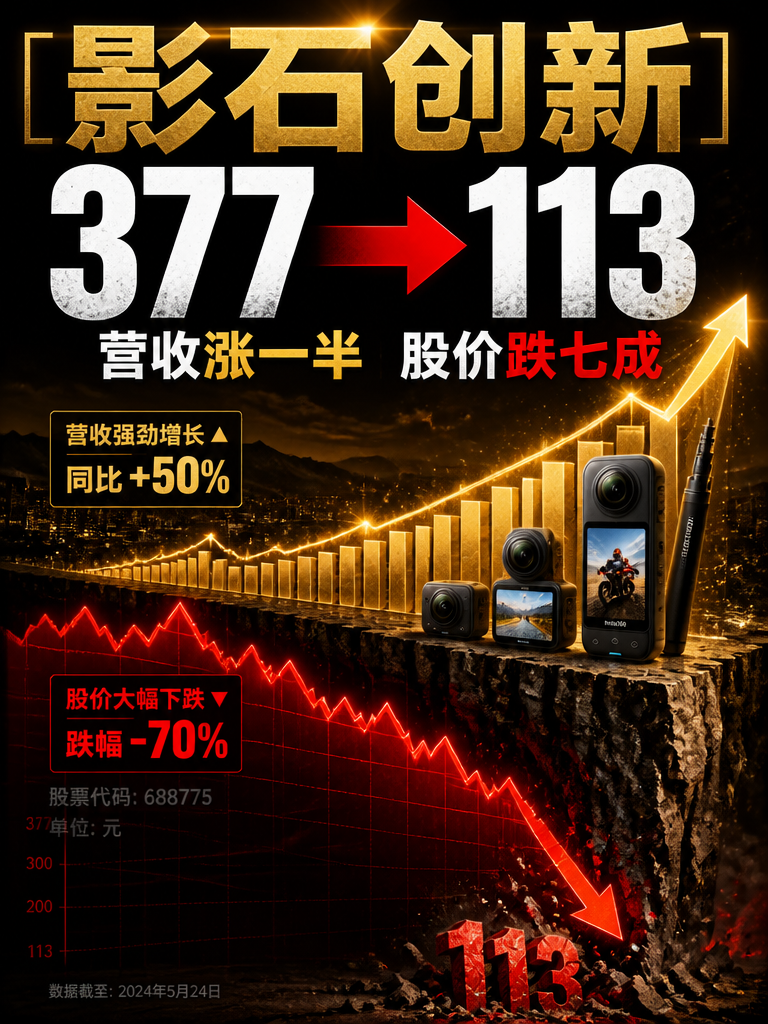
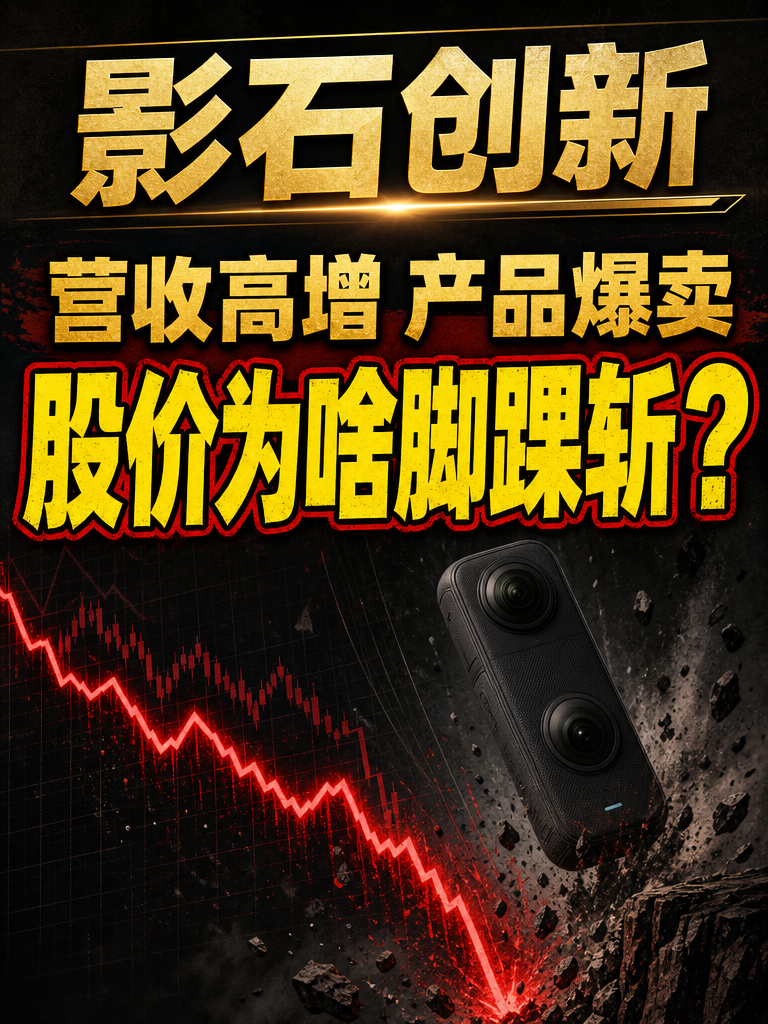
更新影石创新选题：重写三大坑逻辑并更新封面规范
- 影石创新口播稿重写第二个坑（大疆价格战→海外禁售风险），并修正股价/市值数据
- 封面规范更新：主锤字须从标题核心判断长出，数字只作物证不当视觉锤
- 更新封面图与华升复盘中的封面实锤规则

diff --git a/workspace/2026-09-02_影石创新：营收高增，产品越卖越火，股价为啥脚踝斩/视频基础信息.md b/workspace/2026-09-02_影石创新：营收高增，产品越卖越火，股价为啥脚踝斩/视频基础信息.md
@@ -21,7 +21,7 @@
 
 ## 一、口播稿
 
-影石创新，最近股价持续创新低，从最高351块一路跌到接近110块，已经脚踝斩。更狠的是它最新的半年报，上半年卖了55个亿，同比涨了一半，结果到手的利润只剩 3000 万，扣非还倒亏 1500 多万。卖得越多、亏得越狠。上市才一年多，从风光无限到只剩三折。
+影石创新，最近股价持续创新低，从最高377块一路跌到接近110块，已经脚踝斩。更狠的是它最新的半年报，上半年卖了55个亿，同比涨了一半，结果到手的利润只剩3000万，扣非还倒亏1500多万。卖得越多、亏得越狠。上市才一年多，从风光无限到只剩三折。
 
 可问题是，它卖得一点都不差。上半年营收55亿，同比涨了50%，放在消费电子这么疲软的赛道里，这个增速是顶级的。全景相机全球市占率71%，累计出货突破了1000万台，东京的门店开业那天排长队，纽约时代广场的旗舰店也马上要开。产品火成这个样子，利润却几乎归零。
 
@@ -29,47 +29,46 @@
 
 关注蛋炒饭财经，带你深度巡礼1000只股票，今天我们聊影石创新。
 
-影响股价的三大坑到底是什么 - 存储芯片、大疆竞争、研发投入，我们一一拆开来看：
+影响股价的三大坑到底是什么——存储芯片、研发投入、海外禁售风险，我们一一拆开来看：
 
 第一个坑，是给上游半导体打工。影石相机的核心物料是存储芯片，这两年AI爆了，DRAM这种存储芯片被数据中心抢疯了，价格涨了4倍多。影石相机物料成本里，存储芯片的占比，从原来的5%，飙到20%。光这一项，就把它的毛利率从51%打到41%，一年跌了10个点。说白了，影石辛辛苦苦卖一台相机，利润先被上游的存储厂抽走了一大截。
 
-第二个坑，是给大疆的价格战买单。以前全景相机这个细分赛道，基本是影石的独家生意。但2025年大疆杀了进来，第一款全景相机Osmo 360，直接定价2999，比影石同档的X5便宜了800块。大疆是全球无人机老大，有无人机业务赚的钱反哺，有自研芯片控制成本，一进来就用价格往下压，一个季度就拿走了35%的份额。价格战打到后面，两边还互相告专利，光没判的官司就有十来起。这第二个坑，是硬碰硬的竞争。
+第二个坑，是给自己野心买单。影石这几年的路，是往全景之外的新品类铺，全景无人机、云台相机、无线麦克风，全都铺开。研发投入从一年5.6亿直接加到10个亿，翻了一倍。光无人机这条新业务，四家子公司加起来亏了3.7亿。再加上它赌存储还要涨，一口气囤了20亿的芯片。上半年光研发、销售、管理这三项，就吃掉23个亿，占了营收的42%。
 
-第三个坑，是给自己野心买单。影石为了扛住大疆，把战线拉得很长，全景无人机、云台相机、无线麦克风，全都铺开。研发投入从一年5.6亿直接加到10个亿，翻了一倍。光无人机这条新业务，四家子公司加起来亏了3.7亿。再加上它赌存储还要涨，一口气囤了20亿的芯片。上半年光研发、销售、管理这三项，就吃掉23个亿，占了营收的42%。
+第三个坑，是海外的一纸禁令悬在头上。2024年，美国运动相机的老牌GoPro，把影石告上了美国国际贸易委员会，要求把影石的相机禁售在美国市场外。美国是影石最大的海外市场，一旦禁售令落地，主力产品可能直接被赶出去。这案子一打就是两年，成了压在股价上的一块大石头。
 
-就是一家本来在赚钱的公司，同时被三头狼咬：上游涨价咬一口，对手打价格战咬一口，自己扩张烧钱再咬一口。三头狼一起上，利润就剩不下什么了。二季度最典型，一季度还赚8500万，到了二季度，直接亏5400万。三个月，从赚钱到亏钱，连个过渡都没有。
+就是一家本来在赚钱的公司，同时掉进了三个坑：上游涨价，自己扩张烧钱，海外还悬着禁售风险。三个坑叠在一起，利润被吃光，估值也被压在地板上。二季度最典型，一季度还赚8500万，到了二季度，直接亏5400万。三个月，从赚钱到亏钱，连个过渡都没有。
 
-那这三个坑，是暂时的，还是长期的？这才是真正决定这只股票值多少钱的问题。我的判断是：三个坑，性质完全不一样。
+那这三个坑，是暂时的，还是长期的？这才是真正决定这只股票值多少钱的问题。我的判断是：三个坑，性质完全不一样，而且其中一个，已经填上了。
 
-先说存储涨价。很多人以为这是普通涨价周期，过两年就回落。但这次不太一样。英伟达已经明说，内存的供应瓶颈至少要持续到2028财年。三星、海力士、美光这些存储厂，甚至开始跟客户签长期协议锁产能，不玩以前的季度短单了。这轮涨价，是 AI 把存储产能抽空了，不是普通周期波动。所以短期一两年内，存储不会便宜。但这里有个关键：存储涨价是全行业一起扛的，大疆的相机一样要用存储，一样贵。这不是影石独有的死穴，是大家共同的逆风。而且影石自己还囤了20亿芯片，提前锁了价，等于在给未来对冲，能提前囤积20亿芯片，也说明公司对自己长期出货量的看好。
+先说存储涨价。很多人以为这是普通涨价周期，过两年就回落。但这次不太一样。英伟达已经明说，内存的供应瓶颈至少要持续到2028财年。三星、海力士、美光这些存储厂，甚至开始跟客户签长期协议锁产能，不玩以前的季度短单了。这轮涨价，是AI把存储产能抽空了，不是普通周期波动。所以短期一两年内，存储不会便宜。但这里有个关键：存储涨价是全行业一起扛的，做相机的每一家都要用存储，一样贵。这不是影石独有的死穴，是大家共同的逆风。而且影石自己还囤了20亿芯片，提前锁了价，等于在给未来对冲，能提前囤积20亿芯片，也说明公司对自己长期出货量的看好。
 
-第二个坑，大疆的价格战，这才是真正要担心的长期变量。因为大疆有无人机这条现金流印钞机，它亏得起，能陪你打三年五年的价格战。价格战不会因为影石利润崩了就停。只要大疆还留在全景相机这个赛道，这块利润就一直被压着。什么时候能松？要么双方打到都受不了，形成默契；要么某一方认输退出。这个不确定性，短期解不开。
+第二个坑，自己扩张，这个其实是最不用怕的。因为它是管理层自己的选择，是可以收的。研发投多少、无人机铺多大、囤多少芯片，都是董事会一句话的事。利润压力真的大了，管理层随时能收缩战线、砍掉烧钱的业务。所以这个坑，是三个坑里唯一一个自己说了算的。
 
-第三个坑，自己扩张，这个其实是最不用怕的。因为它是管理层自己的选择，是可以收的。研发投多少、无人机铺多大、囤多少芯片，都是董事会一句话的事。利润压力真的大了，管理层随时能收缩战线、砍掉烧钱的业务。所以这个坑，是三个坑里唯一一个自己说了算的。
+第三个坑，是最有意思的，因为它已经解除了。今年2月底，美国国际贸易委员会出了终裁，GoPro告影石的六项专利指控，全部不成立。五项发明专利，要么不侵权、要么被认定无效；唯一沾边的一项外观专利，涉及的还是影石上一代、早就停产的旧款，现在的主力产品全是新外观，一点没受影响。一句话，影石可以继续不受限制地在美国卖货，它最大的海外市场的禁售风险，正式落地解除。这场官司影石硬刚了两年，光应诉就花了上千万美元，但它赢了，压在股价上的一块大石头，搬开了。
 
-那问题就来了，把这三头狼都摆开，影石创新这家公司，底子到底还在不在？长期看，价格战打到最后，拼的还是产品力。影石的产品力，还能不能打？
+那问题就来了，影石创新这家公司，底子到底还在不在？长期看，竞争打到最后，拼的还是产品力。影石的产品力，还能不能打？
 
-我的判断很明确：能打，而且这是这只股票最值钱的部分。很多人一看利润崩了，就觉得这公司是不是产品不行了。真不是。影石从2015年就开始做全景相机，十年时间，把全球市占率做到71%，累计出货1000万台，是这个品类的定义者。它的看家本领是全景拼接算法、防抖、AI 影像，这些不是大疆一年半载能抄走的，博主自己也是影石的忠实用户，产品力确实很不错。
+我的判断很明确：能打，而且这是这只股票最值钱的部分。很多人一看利润崩了，就觉得这公司是不是产品不行了。真不是。影石从2015年就开始做全景相机，十年时间，把全球市占率做到71%，累计出货1000万台，是这个品类的定义者。它的看家本领是全景拼接算法、防抖、AI影像，这些技术护城河是十年砸出来的。博主自己也是影石的忠实用户，产品力确实很不错。
 
-就说最新这一代 X5。它用了两颗 1.28 英寸的大底传感器，比大疆 Osmo 360 的底还大，底大一级，画质和夜景就压一头。它的FlowState 防抖、13.5 档动态范围，加上夜景专用的 PureVideo 模式，你去翻实测，画质、防抖、生态到今天都没掉队，甚至在画质上还压大疆一头。
-
-大疆强在供应链规模、自研芯片、还有无人机业务反哺的钱。它能在同等产品上，用更低的价格去卖。所以这不是一场产品力对产品力的碾压，是一场产品力对规模的持久战。影石的产品力能打，但它能不能在价格战里，把产品力重新变成利润，这才是真正的悬念。
+就说最新这一代X5。它用了两颗1.28英寸的大底传感器，画质和夜景直接上了一个台阶。它的FlowState防抖、13.5档动态范围，加上夜景专用的PureVideo模式，你去翻实测，画质、防抖、生态到今天都没掉队。
 
 最后落到大家最关心的：现在这个价，到底贵不贵。
 
 先说市盈率。现在影石的市盈率是 103 倍，看着吓人，但这是假的。因为它的利润崩了，分母变小了，市盈率被硬生生抬上去了。拿 103 倍说它贵，是不对的，因为它的利润正处在最难看的时候。所以影石现在不能看市盈率，得看市销率。
 
-市销率，就是市值除以营收。影石现在市值 454 亿，过去一年营收大概 116 亿，算下来市销率差不多3.9倍。什么概念，小米市销率只有1.4。那这个溢价哪来的？就是市场在赌它那50%的增速，赌它利润拐点早点来。
+市销率，就是市值除以营收。影石现在市值 450 亿，过去一年营收大概 116 亿，算下来市销率差不多3.9倍。什么概念，小米市销率只有1.4。那这个溢价哪来的？就是市场在赌它那50%的增速，赌它利润拐点早点来。
 
-所以我的判断是：现在这个价，谈不上便宜，但也已经把泡沫挤掉大半了。它从 1400 亿跌到 454 亿，最疯狂的那部分已经跌没了。剩下这 454 亿，买的是"利润拐点会来"这个预期，不是现价的便宜。
+所以我的判断是：现在这个价，谈不上便宜，但也已经把泡沫挤掉大半了。它从1400亿跌到450亿，最疯狂的那部分已经跌没了。剩下这450亿，买的是"利润拐点会来"这个预期，不是现价的便宜。
 
-那这只股票，到底该盯什么？我给三个信号。第一，盯存储芯片的价格拐点，存储什么时候见顶回落，它的毛利率才能回升。第二，盯大疆和它的价格战，是继续打，还是双方开始默契休战。第三，盯它自己，管理层会不会收缩无人机这些烧钱的业务。这三个信号，任何一个出现实质变化，这公司的逻辑都会跟着变，那会可能会有真的拐点到来。
+那这只股票，到底该盯什么？我给三个信号。第一，盯存储芯片的价格拐点，存储什么时候见顶回落，它的毛利率才能回升。第二，盯海外市场，尤其是美国，禁售风险解除之后，它最大的市场能不能继续放量。第三，盯它自己，管理层会不会收缩无人机这些烧钱的业务。这三个信号，任何一个出现实质变化，这公司的逻辑都会跟着变，那会可能会有真的拐点到来。
 
-说白了，影石创新不是一家产品不行的公司，它是一家产品能打、但赚钱这件事暂时陷入三大坑的公司。它的底子还在，问题是这场价格战，它得熬多久。我个人倾向于，别把它当成一个跌了七成就该捡的便宜，也别当成一个利润归零就该丢的破烂。它就是一个高增长、但暂时不赚钱的成长股，值不值这个价，取决于你敢不敢赌它的利润拐点。
+说白了，影石创新不是一家产品不行的公司，它是一家产品能打、但赚钱这件事暂时陷入三大坑的公司。它的底子还在，海外最大的那块风险也已经落地了。我个人倾向于，别把它当成一个跌了七成就该捡的便宜，也别当成一个利润归零就该丢的破烂。它就是一个高增长、但暂时不赚钱的成长股，值不值这个价，取决于你敢不敢赌它的利润拐点。
 
 踏踏实实做研究，本本分分看数据。以上仅为个人分析，不构成投资建议，股市有风险，入市需谨慎。
 
-你对影石创新这454亿的市值怎么看？是觉得它跌到位了，还是觉得它还得再杀一杀估值？评论区聊聊你的看法。觉得有用的帮我点赞收藏，想继续看深度拆解的关注蛋炒饭财经，我们下期再见。
+你对影石创新目前的市值怎么看？是觉得它跌到位了，还是觉得它还得再杀一杀估值？评论区聊聊你的看法。觉得有用的帮我点赞收藏，想继续看深度拆解的关注蛋炒饭财经，我们下期再见。
+
 
 ## 二、爆款标题（3个精华候选）
 

diff --git a/bilibili-finance-video/references/cover-prompts.md b/bilibili-finance-video/references/cover-prompts.md
@@ -33,7 +33,6 @@
 
 同一支股票、文案功力相近的两张封面，点击率能差几十倍，差距几乎全在**画面有没有承载信息**。这是财经封面最被低估、也最能拉开 CTR 的一点。
 
-- **背景板式（低 CTR）**：大字 + 一根通用涨/跌 K 线 + 配色。那根 K 线换成任何一只股票都成立，画面零信息增量，只是"财经氛围底图"，全靠文字硬撑。要避免。
 - **物证式（高 CTR）**：画面本身在讲一个"不点开不甘心"的故事，图里有具体物件、具体数字、具体场景，它们本身就是钩子。
 
 把画面做成"物证"，靠这四件事：
@@ -48,16 +47,16 @@
 
 ---
 
-## 三、唯一视觉锤：脸 / 大字数字 / 物件，三选一，绝不并列
+## 三、唯一视觉锤：脸 / 大字判断 / 物件，三选一，绝不并列
 
 封面只能有一个视觉焦点，观众眯眼扫过时第一落点必须唯一。**最常见的业余错误是脸也做大、字也做大，两个主体互相打架，情绪和信息都被稀释。**
 
-- **三选一**：要么一张有戏的脸，要么一个巨大的字/数字，要么一个孤立放大的物件。财经封面多数走后两条（蛋炒饭财经不强依赖露脸）。
+- **三选一**：要么一张有戏的脸，要么一个巨大的主锤字（从标题里长出来的一句判断/情绪，不是裸数字），要么一个孤立放大的物件。财经封面多数走后两条（蛋炒饭财经不强依赖露脸）。
 - **主体少而大**，占最抓眼的位置，不堆砌同等重量的元素。
 - **给文字留白**：主体不能铺满画面，刻意留干净区域给大字。留白位置和大字位置一体规划，不是先画满再往缝里塞字。
 - **画面服务文字**：两者冲突时优先保证大字清晰可读。
 
-财经封面情绪锚点常落在**物件/数字**上（无人脸路线是独立成立的正路，不是将就）：一件有张力的物件（涂改液、坠落的刀、攥紧的手）、或一个占屏极大的主锤字/数字本身即主体。此时字体设计、材质感、与底图的融合就是全部功力。
+财经封面情绪锚点常落在**物件/判断**上（无人脸路线是独立成立的正路，不是将就）：一件有张力的物件（涂改液、坠落的刀、攥紧的手）、或一个占屏极大的主锤字本身即主体。此时字体设计、材质感、与底图的融合就是全部功力。
 
 ---
 
@@ -65,13 +64,12 @@
 
 封面文字不是"排版"，是当**图形**造型。高点击封面普遍是三级结构：
 
-1. **主锤字**：极粗字重、描边或发光，占屏最大。**2-4 字或一个数字/百分比最理想**（如"100万人被套""亏了1800亿""还有救吗"）。
+1. **主锤字**：极粗字重、描边或发光，占屏最大。**2-4 字最理想，且必须从标题的核心判断/情绪里长出来**（如"还有救吗""被涂改了""割还是扛"）。**不要用一个孤立的数字/百分比当主锤**——数字是证据不是判断，观众 0.5 秒读不到一句人话，只觉得"又一个甩数字的"，钩子立不住。
 2. **限定语**：小一号，紧贴主锤字补全语义（主锤"腰斩"下面小字"财务更正后"）。让主锤从一个词变成完整判断，又不抢它的重量。
-3. **英文/副标装饰行**：严肃调查风专用，一行小英文或副标压阵，为质感与厚重感（不为看懂）。非必须。
 
 字数与用词：
 
-- **主锤字理想 4-8 个汉字**（数字/缩写可更短）。短于此立不住一个判断，长于8字在竖屏缩略图里挤成一团。
+- **主锤字理想 4-8 个汉字**（缩写可更短）。短于此立不住一个判断，长于8字在竖屏缩略图里挤成一团。
 - **一句只表达一个判断或一个情绪冲击点**，多层信息拆到主锤字+限定语两级。
 - **用口语，不用书面总结**。读出来要像脱口而出的判断或惊呼，不是论文摘要。
 
@@ -90,9 +88,11 @@
 - **模式 A：封面扛全部，标题极简留白**。封面信息做足，标题写得平淡（留白反而勾人）。
 - **模式 B：封面给氛围/物证，标题给钩子**。封面偏主体，把悬念交给标题的问句或省略号。
 
+- **封面大字从标题的核心判断里长出来（忠实体现标题内容，硬约束）**：标题讲哪件事、哪种情绪，封面大字就锚在那件事上，换个更口语/更有画面、但立场和锚点不变的说法——不是从稿子里另抓一个吸睛数字或噱头。标题说"利润翻倍却被骂"，大字锚"被骂"而非"翻倍"；标题说"营收高增股价脚踝斩"，大字锚"脚踝斩"这个反差。标题讲 A、封面甩一个和 A 无关的大数字，就是两张皮。
+
 自查：把标题和封面大字放一起读，如果信息几乎没有增量，就是重复了，改写其中一个。方向也不能打架——**标题看空，封面不能显得看多**（别做标题党，封面制造缺口、视频负责闭合，钩子后面没东西会毁留存和账号信任）。
 
-> 承接旧规则："封面大字承接选定标题"仍成立，但"承接"指**立场和方向一致**，不是逐字照搬。因排版精简字数时只做提炼、不改立场。
+> 承接旧规则："封面大字承接选定标题"仍成立，但"承接"指**忠实体现标题在讲的那件事/那个判断**——立场、方向、锚点一致——不是逐字照搬。因排版精简字数时只做提炼、不改立场、不换锚点。
 
 ---
 
@@ -193,7 +193,7 @@ Style: cinematic, gritty texture, high-contrast, bold heavy typography, professi
 ```
 A professional vertical financial-investigation thumbnail, 3:4 portrait aspect ratio, for a finance short video.
 Central creative visual metaphor filling the frame: a hand holding a baijiu-bottle-shaped correction fluid, painting white over a financial report — a visual pun for whitewashing the numbers.
-Overlay one bold before/after figure that screams "腰斩": "215亿 → 64亿" with a large red downward arrow.
+The financial report under the correction fluid shows a small before/after figure "215亿 → 64亿" as part of the document being altered — the number is evidence inside the report, not a giant standalone numeral or headline.
 Real-object texture with subtle film grain: correction fluid, a red stamp "财务调整", a blurred corporate building behind.
 Very top: bold Chinese company name pinned across the top as the dominant headline, the biggest clearest text on the cover, with a warm gold accent bar: "五粮液".
 Upper-center huge extra-bold Chinese text with outline: "财务被涂改了".

diff --git a/workspace/huasheng.md b/workspace/huasheng.md
@@ -162,7 +162,7 @@
 ### 8.3 已沉淀的具体规律（种子，随复盘增长）
 - **【高·置信高·9样本】涨粉率 ≈ 平均播放时长，与播放量几乎无关（2026-08-18 全量横评，账号最强的一条规律）**：把 9 条稿件按涨粉率排，涨粉率前三（长电1.74%/京东方1.51%/迈瑞1.47%）恰好是平均播放时长 >84s 的三条；涨粉率后三名（恒瑞0.48%/药明0.43%/茅台0.26%）恰好是平均播放时长 <60s 的三条，几乎单调正相关。而**播放量对涨粉率几乎零贡献**——播放第一的五粮液（20.6万）涨粉率仅 0.53%，播放倒数第一的长电（3.9万）涨粉率最高 1.74%，反向。**操作结论：吸粉的目标函数不是"冲播放"，是"把平均播放时长从 80s 拉到 120s+"**（走完播通道），或者"开头就甩一个别人讲不出的锋利判断"（走认知通道，见迈瑞例外）。唯一例外迈瑞（均长仅 84.7s、涨粉率仍 1.47%）说明：即使中段有流失，只要开头有个把讲烂的东西讲出别人讲不出的深度、或把一锅粥理出主线的判断（集采不是杀死龙头是帮龙头清场），观众没看完也愿意先关注。→ 每条稿子开头最好有一个这样的判断/框架，但它是"锦上添花的放大器"，不是"吸粉的生死线"——没有就别硬造，硬造的独家（算一个没人算过的数、立一个没人立过的靶子）比没有更伤。
 - **【高·置信高·9样本】选题光谱决定吸粉上限：超大盘白马 + 全网热点是吸粉黑洞，有持仓盘的中盘票是吸粉基本盘（独家角度只是加分项，不是第一因）**：涨粉率后五名恰好全是"超级大盘白马或全网都在讲的热点"——茅台0.26%（超大盘白马）/ 恒瑞0.48%（创新药全网热点）/ 药明0.43%（CXO全网热点）/ 五粮液0.53%（超大盘白马）/ 宇树0.60%（全网热点新股）；涨粉率前三名全是"有明确套牢盘、还没被全网铺满"的中盘票——长电/京东方/迈瑞。根因（别归错因）：这三条的第一因是**"有一批人正拿着这只票、正在为自己的钱焦虑"（持仓焦虑流量，见阶段零第一性原理）**，"独家重算"只是这几个样本顺带带的属性、是加分项不是主因；超大盘白马和全网热点的共同痛点也不全是"没独家"，而是观众在别处早听过、手里又没有那笔仓逼他看完。这条统一并升级了之前的「宇树=话题热≠持仓热」和「茅台高播放低涨粉」。→ 选题第一问从"这事够不够热"升级为两句：①"看的人手里有没有这只票的仓、值不值得他为自己的钱看完"（第一因）；②"这个票是不是已经被全网讲烂了"——讲烂了优先换票，其次才是换角度。
-- **【高·置信高】封面点击是独立关卡，封面实锤必须是具体实锤不是抽象意象（茅台 4.90% 为反例）**：茅台《十年首降》封面点击率 4.90%，是全账号唯一崩掉的封面（第二低五粮液还有 12.75%）。封面没勾住 → 点进来的人平均只看 32s（全账号最短）→ 涨粉率 0.26% 垫底，三段连环崩。教训：茅台封面用"拧酒瓶挤水分"的抽象意象，观众 0.5 秒读不到任何具体信息；而高点击封面（长电"八年十倍"、京东方"100万人被套"、迈瑞"6000亿→1800亿"）都有具体实锤（数字或物证意象）。**硬规则：封面主视觉承载的核心判断必须压成一个具体实锤（物证意象或数字反差），抽象意象（挤水分、拧酒瓶）不能替代具体实锤**——尤其对"利润只降 1.95%"这类本身不够吓人的钩子，具体实锤是唯一能救封面点击的东西。
+- **【高·置信高】封面点击是独立关卡，封面实锤必须是具体实锤不是抽象意象（茅台 4.90% 为反例）**：茅台《十年首降》封面点击率 4.90%，是全账号唯一崩掉的封面（第二低五粮液还有 12.75%）。封面没勾住 → 点进来的人平均只看 32s（全账号最短）→ 涨粉率 0.26% 垫底，三段连环崩。教训：茅台封面用"拧酒瓶挤水分"的抽象意象，观众 0.5 秒读不到任何具体信息；而高点击封面（长电"八年十倍"、京东方"100万人被套"、迈瑞"6000亿→1800亿"）都有具体实锤（当时靠数字或物证意象，但数字不是好视觉锤）。**硬规则：封面主视觉承载的核心判断必须压成一个具体实锤（首选物证意象），抽象意象（挤水分、拧酒瓶）不能替代具体实锤；数字只作为物证里的证据出现、不当视觉锤**——尤其对"利润只降 1.95%"这类本身不够吓人的钩子，具体实锤是唯一能救封面点击的东西。
 - **【中·置信中偏高】高播放≠高吸粉/高完播（双样本，已被上一条升级为9样本版，本条保留作历史溯源）**：①五粮液单条播放 19.3 万（强触达），但封面点击率 12.33%（低于基准）、平均播放占比 15.91%、完播率 4.28%——争议性选题（"利润翻倍却被骂修改液"）把人拉进来了，但完播偏弱。②茅台《十年首降》播放"还可以"、但涨粉"一般"——播放没问题、短板单独压在转粉率。两条共同指向：**播放是触达的结果，吸粉看的是"看完觉得这人以后还得听"的独家认知增量，二者是两回事，别用播放判断一条稿子成不成。** 推测归因：争议/热点钩子带量强，但（a）中段留存没跟上、后半段转粉料够不到，（b）热点同题内容多时独家性被摊薄、泛路人被拉进来稀释了核心受众。→ 带量型选题要额外加固中段留存单元 + 把"这人有料"的独家判断尽量前置。（详见 reports/2026-08-17_茅台高播放低涨粉复盘.md）
 - **【中·置信中】账号整体进入留存力衰减期（8月中旬）**：5秒完播率从 7 月的 80-90% 滑到 8 月的 65-74%，平均时长从 130-160s 降到 80-95s，而封面点击率仍稳（15-22%）。9 条 8 月稿件 5s 完播率全部压在 42%~61%，无一上 70%——衰减是系统性的、覆盖全部 8 月稿件，不只是单条问题。→ 当前主要矛盾是"点进来留不住"，不是"点不进来"。下一批稿子重点打磨 hook 与前 1 分钟节奏。
 - **【低·待验证】8月4日异常**：投稿 2 条、评论 -817、平均时长骤降到 32s、5秒完播 51%。疑似限流或合规触发，待回后台核实（见 reports 复盘）。→ 一天双发可能稀释单条推荐权重，谨慎。
